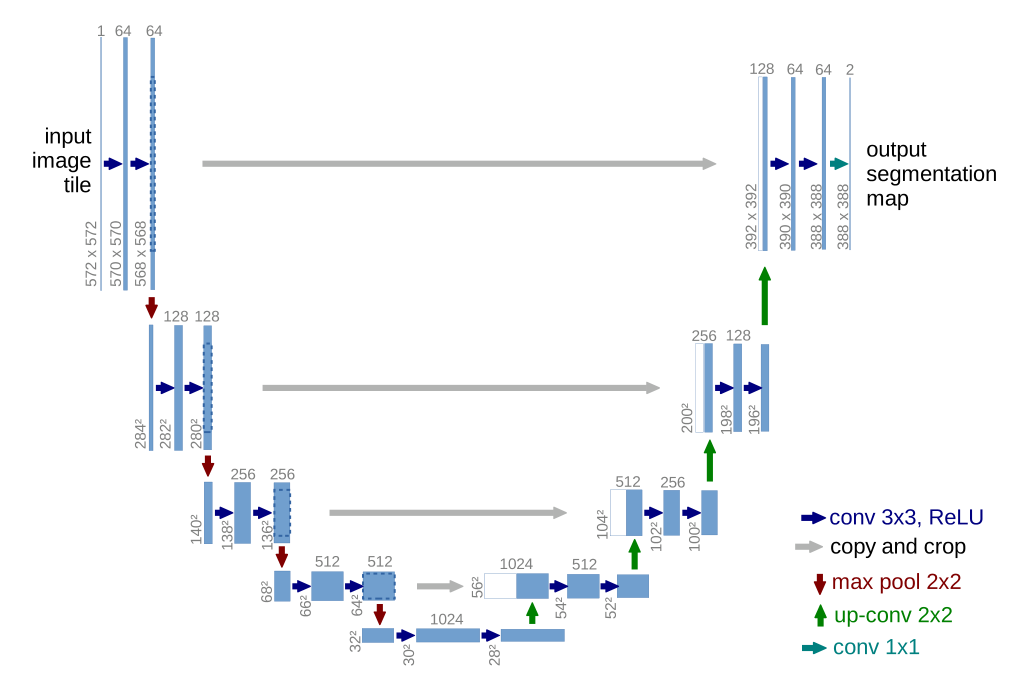
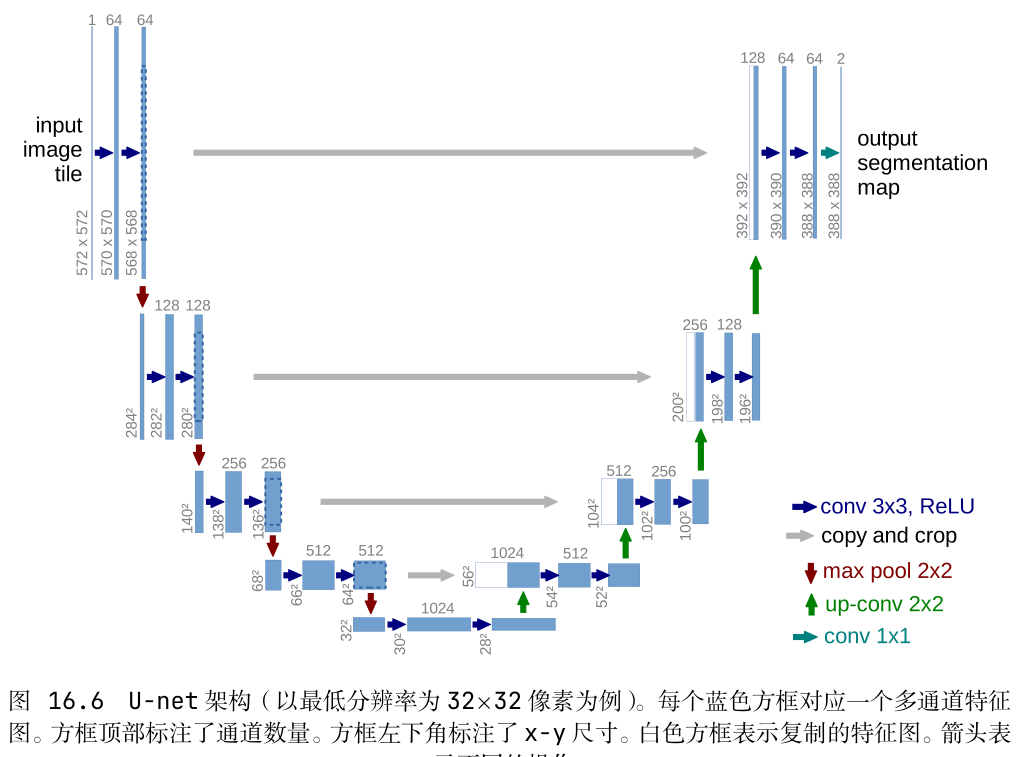
第16章图16.3/16.5/16.6修正:图16.3补全(1035x117->1019x467,含图像/采样/高斯分布/87+3=90全过程)、图16.5补全并确认文字在上方(1019x710)、图16.6重提并补全图注;站点中图16.6与16.7顺序颠倒已修正(16.6归入16.1.3.2神经网络架构节),删除文档中与图注重复的说明段

diff --git a/llm-tutorial-16-1/index.html b/llm-tutorial-16-1/index.html
@@ -178,12 +178,15 @@ MSE</p>
 <li>其瓶颈架构能够在将整幅图像压缩到潜在空间后将其重建。同时，通过残差连接保留关键图像特征。</li>
 <li>U-Net 最初设计用于生物医学图像分割，其中像素级精度至关重要，它的优势可以很好地转化为需要精确预测单个像素值的扩散任务。</li>
 </ul>
+<figure class="tutorial-figure"><img src="/post-images/tutorial-figs/fig-16-6.png" alt="图 16.6 U-net 架构（以最低分辨率为 32×32 像素为例）" loading="lazy"><figcaption>图 16.6 U-net 架构（以最低分辨率为 32×32 像素为例）</figcaption></figure>
+
 <h4 id="sec-10">16.1.3.3 共享网络</h4>
 <p>乍一看，似乎有必要为扩散过程的每次迭代训练一个单独的神经网络。虽然这种方法可行，并且可以产生高质量的推理结果，但从计算角度来看，它效率极低。例如，如果扩散过程包含1000 个时间步，我们就需要训练1000 个U-Net 模型——这是一项极其耗时且资源密集的任务。</p>
 <p>然而，我们可以观察到，不同迭代中的任务配置本质上是相同的：在每种情况下，我们都需要重建一个尺寸相同、且经过相似幅度噪声改变的图像。这一重要洞见促成了在所有迭代中使用单个共享神经网络的想法。</p>
 <p>实际上，这意味着我们使用一个具有共享权重的U-Net 模型，该模型基于来自不同扩散步骤的图像对进行训练。在推理过程中，含噪图像会多次通过同一个经过训练的U-Net模型，逐步进行优化，直到生成高质量的图像。</p>
+
 <figure class="tutorial-figure"><img src="/post-images/tutorial-figs/fig-16-7.png" alt="图 16.7 共享模型" loading="lazy"><figcaption>图 16.7 共享模型</figcaption></figure>
-<p><figure class="tutorial-figure"><img src="/post-images/tutorial-figs/fig-16-6.png" alt="图 16.6" loading="lazy"><figcaption>图 16.6</figcaption></figure>
+<p>
 
 虽然由于仅使用单一模型，生成质量可能会略有下降，但训练速度的提升却非常显著。</p>
 
